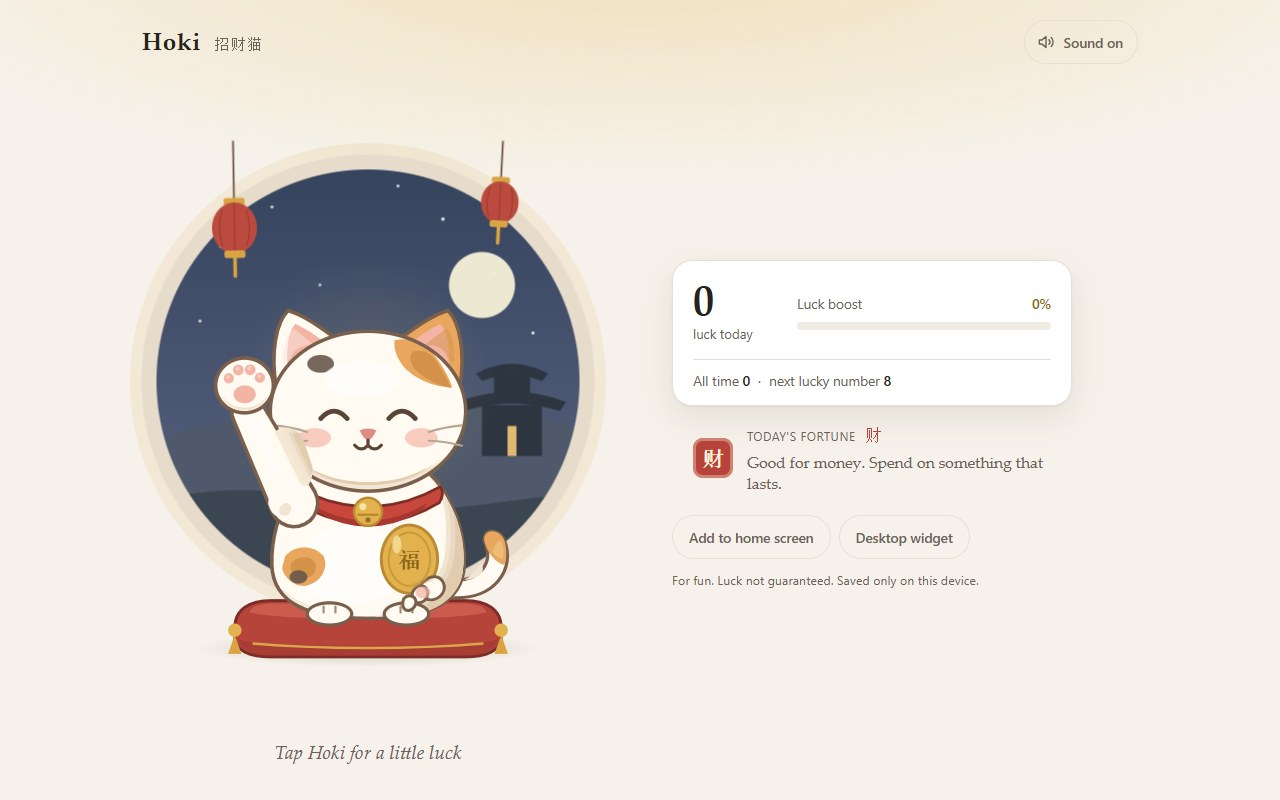
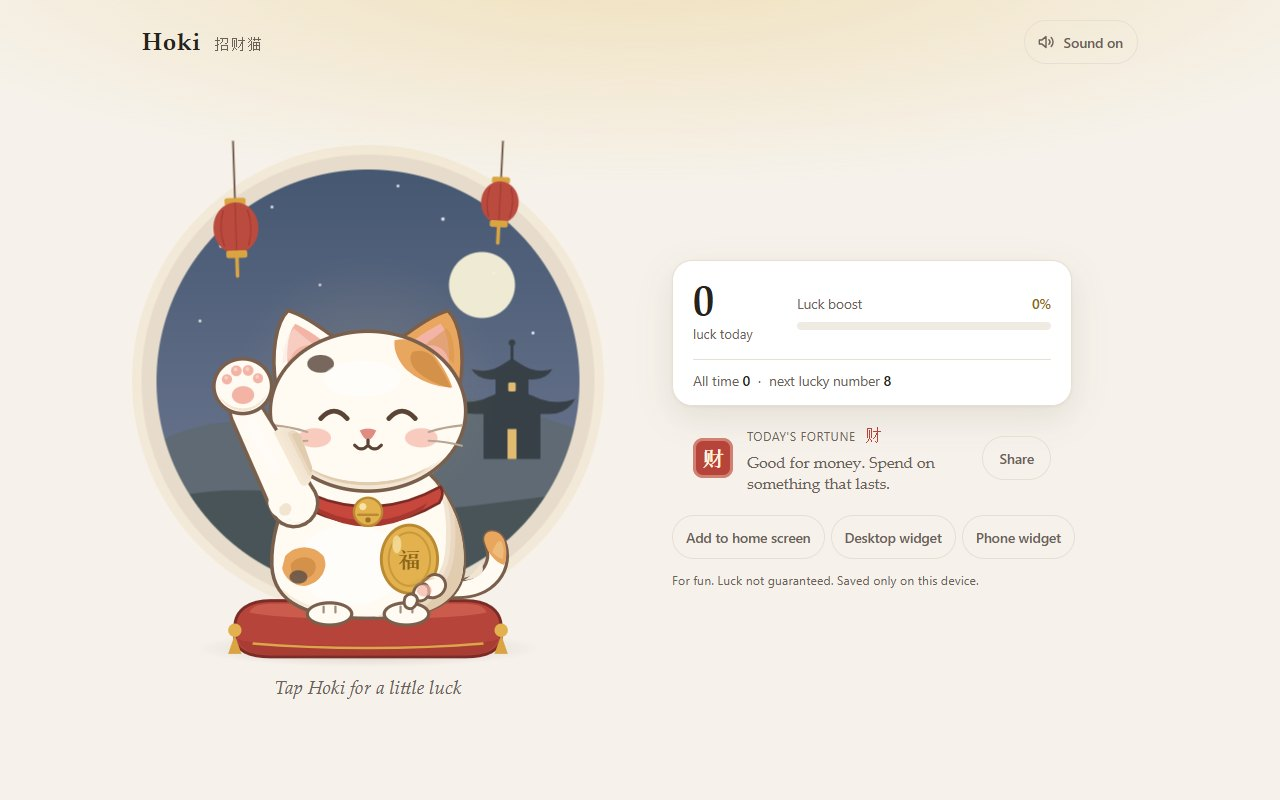
hoki: Android home-screen widget copy + v2.3.1 shot

diff --git a/p/hoki/index.html b/p/hoki/index.html
@@ -592,7 +592,7 @@ html.dna.dna.dna { --fd: "Shippori Mincho", var(--fd-fallback); --fdw: 700; --fd
   <section class="hero wrap editorial" id="top">
     
     <div class="hero-top"><div class="hero-copy">
-      <span class="pill"><span class="dot"></span>PWA · Windows widget<span class="status">live</span></span>
+      <span class="pill"><span class="dot"></span>PWA · Windows widget · Android widget<span class="status">live</span></span>
       <h1>A <span class="hl">lucky cat<svg viewBox="0 0 200 20" preserveAspectRatio="none" aria-hidden="true"><path d="M2 14 C 40 4, 80 4, 110 11 S 170 18, 198 7" fill="none" stroke="currentColor" stroke-width="5" stroke-linecap="round"/></svg></span> that waves all day.</h1>
       <p class="sub">Hoki is a calm maneki-neko (招财猫) for your phone home screen and your Windows desktop. Tap it for a little luck.</p>
       <div class="cta"><a class="btn primary" href="https://juw12.github.io/hoki/">▶ Try it live</a><a class="btn " href="https://github.com/juw12/hoki#readme">Read the README</a><a class="btn " href="https://github.com/juw12/hoki">View source</a></div>
@@ -604,7 +604,7 @@ html.dna.dna.dna { --fd: "Shippori Mincho", var(--fd-fallback); --fdw: 700; --fd
       <div class="bar"><i></i><i></i><i></i><span>hoki · live demo</span><em>live demo</em></div>
       <img src="shot.jpg" alt="Hoki screenshot" width="1280" height="800" fetchpriority="high">
     </figure>
-    <div class="stats reveal" style="--n:2"><div class="stat"><b>2</b><span>platforms: PWA, Windows widget</span></div><div class="stat"><b>MIT</b><span>open source licence</span></div></div>
+    <div class="stats reveal" style="--n:2"><div class="stat"><b>3</b><span>platforms: PWA, Windows widget, Android widget</span></div><div class="stat"><b>MIT</b><span>open source licence</span></div></div>
   </section>
 
   <section class="block wrap why reveal" id="why">
@@ -616,17 +616,17 @@ html.dna.dna.dna { --fd: "Shippori Mincho", var(--fd-fallback); --fdw: 700; --fd
   <section class="block alt wrap reveal" id="how">
     <div class="kicker">How it works</div>
     <h2>Get Hoki</h2>
-    <ol class="steps n3"><li><span class="num">1</span><h3>Open it</h3><p>Go to juw12.github.io/hoki on your phone or computer.</p></li><li><span class="num">2</span><h3>Add it to your home screen</h3><p>iPhone (Safari): Share, then Add to Home Screen.</p></li><li><span class="num">3</span><h3>Or put it on your desktop</h3><p>On Windows, paste one line into PowerShell.</p></li></ol>
+    <ol class="steps n3"><li><span class="num">1</span><h3>Open it</h3><p>Go to juw12.github.io/hoki on your phone or computer.</p></li><li><span class="num">2</span><h3>Put it on your phone</h3><p>Android: tap Phone widget in the app, install hoki-widget.apk, then long-press the home screen, choose Widgets and drag Hoki out.</p></li><li><span class="num">3</span><h3>Or put it on your desktop</h3><p>On Windows, paste one line into PowerShell.</p></li></ol>
   </section>
   <section class="block wrap reveal" id="features">
     <div class="kicker">What's inside</div>
     <h2>What Hoki does.</h2>
-    <div class="bento"><article class="cell wide dark"><h3>A cat that waves all day</h3><p>The raised paw waves on its own, smoothly, in a soft flat-vector style with a moon-gate scene behind it.</p></article><article class="cell"><h3>Tap for luck</h3><p>Each tap gives +1 luck (福 / 财 / 运 / 喜), a bell, coins and a luck boost that speeds up the wave.</p></article><article class="cell"><h3>Lucky numbers</h3><p>8 发, 28, 88, 168 一路发, 288, 888, 1688 and 8888 trigger a big bell and a blessing.</p></article><article class="cell accent"><h3>Today and all time</h3><p>Counts your luck for today and all time, and shows the next lucky number to reach.</p></article><article class="cell"><h3>On your home screen</h3><p>Add it to your phone&#x27;s home screen. It opens full screen and works offline.</p></article><article class="cell"><h3>On your Windows desktop</h3><p>A transparent, always-on-top widget draws the same cat. Click for luck, drag to move, right-click for options.</p></article></div>
+    <div class="bento"><article class="cell wide dark"><h3>A cat that waves all day</h3><p>The raised paw waves on its own, smoothly, in a soft flat-vector style with a moon-gate scene behind it.</p></article><article class="cell"><h3>Tap for luck</h3><p>Each tap gives +1 luck (福 / 财 / 运 / 喜), a bell, coins and a luck boost that speeds up the wave.</p></article><article class="cell"><h3>Lucky numbers</h3><p>8 发, 28, 88, 168 一路发, 288, 888, 1688 and 8888 trigger a big bell and a blessing.</p></article><article class="cell accent"><h3>Today and all time</h3><p>Counts your luck for today and all time, and shows the next lucky number to reach.</p></article><article class="cell"><h3>On your phone</h3><p>Android: a real home-screen widget. The cat waves on your home screen and a tap adds luck. iPhone: Add to Home Screen for a full-screen Hoki that works offline.</p></article><article class="cell"><h3>On your Windows desktop</h3><p>A transparent, always-on-top widget draws the same cat. Click for luck, drag to move, right-click for options.</p></article></div>
   </section>
   <section class="block alt wrap reveal" id="today">
     <div class="kicker">Working today</div>
     <h2>Small on purpose.</h2>
-    <ul class="checks"><li><i><svg viewBox="0 0 24 24" aria-hidden="true"><path d="M5 12.5l4.2 4.2L19 7" fill="none" stroke="currentColor" stroke-width="2.6" stroke-linecap="round" stroke-linejoin="round"/></svg></i><span>Waves all day</span></li><li><i><svg viewBox="0 0 24 24" aria-hidden="true"><path d="M5 12.5l4.2 4.2L19 7" fill="none" stroke="currentColor" stroke-width="2.6" stroke-linecap="round" stroke-linejoin="round"/></svg></i><span>Tap for a luck boost</span></li><li><i><svg viewBox="0 0 24 24" aria-hidden="true"><path d="M5 12.5l4.2 4.2L19 7" fill="none" stroke="currentColor" stroke-width="2.6" stroke-linecap="round" stroke-linejoin="round"/></svg></i><span>Lucky-number blessings</span></li><li><i><svg viewBox="0 0 24 24" aria-hidden="true"><path d="M5 12.5l4.2 4.2L19 7" fill="none" stroke="currentColor" stroke-width="2.6" stroke-linecap="round" stroke-linejoin="round"/></svg></i><span>Works offline</span></li><li><i><svg viewBox="0 0 24 24" aria-hidden="true"><path d="M5 12.5l4.2 4.2L19 7" fill="none" stroke="currentColor" stroke-width="2.6" stroke-linecap="round" stroke-linejoin="round"/></svg></i><span>Phone home screen</span></li><li><i><svg viewBox="0 0 24 24" aria-hidden="true"><path d="M5 12.5l4.2 4.2L19 7" fill="none" stroke="currentColor" stroke-width="2.6" stroke-linecap="round" stroke-linejoin="round"/></svg></i><span>Windows desktop widget</span></li><li><i><svg viewBox="0 0 24 24" aria-hidden="true"><path d="M5 12.5l4.2 4.2L19 7" fill="none" stroke="currentColor" stroke-width="2.6" stroke-linecap="round" stroke-linejoin="round"/></svg></i><span>No account, no ads</span></li></ul>
+    <ul class="checks"><li><i><svg viewBox="0 0 24 24" aria-hidden="true"><path d="M5 12.5l4.2 4.2L19 7" fill="none" stroke="currentColor" stroke-width="2.6" stroke-linecap="round" stroke-linejoin="round"/></svg></i><span>Waves all day</span></li><li><i><svg viewBox="0 0 24 24" aria-hidden="true"><path d="M5 12.5l4.2 4.2L19 7" fill="none" stroke="currentColor" stroke-width="2.6" stroke-linecap="round" stroke-linejoin="round"/></svg></i><span>Tap for a luck boost</span></li><li><i><svg viewBox="0 0 24 24" aria-hidden="true"><path d="M5 12.5l4.2 4.2L19 7" fill="none" stroke="currentColor" stroke-width="2.6" stroke-linecap="round" stroke-linejoin="round"/></svg></i><span>Lucky-number blessings</span></li><li><i><svg viewBox="0 0 24 24" aria-hidden="true"><path d="M5 12.5l4.2 4.2L19 7" fill="none" stroke="currentColor" stroke-width="2.6" stroke-linecap="round" stroke-linejoin="round"/></svg></i><span>Works offline</span></li><li><i><svg viewBox="0 0 24 24" aria-hidden="true"><path d="M5 12.5l4.2 4.2L19 7" fill="none" stroke="currentColor" stroke-width="2.6" stroke-linecap="round" stroke-linejoin="round"/></svg></i><span>Android home-screen widget</span></li><li><i><svg viewBox="0 0 24 24" aria-hidden="true"><path d="M5 12.5l4.2 4.2L19 7" fill="none" stroke="currentColor" stroke-width="2.6" stroke-linecap="round" stroke-linejoin="round"/></svg></i><span>Windows desktop widget</span></li><li><i><svg viewBox="0 0 24 24" aria-hidden="true"><path d="M5 12.5l4.2 4.2L19 7" fill="none" stroke="currentColor" stroke-width="2.6" stroke-linecap="round" stroke-linejoin="round"/></svg></i><span>No account, no ads</span></li></ul>
   </section>
   <section class="block wrap reveal" id="gallery">
     <div class="kicker">Screens</div>
@@ -658,7 +658,7 @@ html.dna.dna.dna { --fd: "Shippori Mincho", var(--fd-fallback); --fdw: 700; --fd
     <div class="limits">
       <div><div class="kicker left">Good to know</div><h2 class="left">Honest limits.</h2>
       <p class="muted">Straight from the README, so you know what you're getting before you try it.</p></div>
-      <ul><li><i><svg viewBox="0 0 24 24" aria-hidden="true"><path d="M12 3.5l9.5 16.5h-19z" fill="none" stroke="currentColor" stroke-width="2" stroke-linejoin="round"/><path d="M12 10v4.5M12 17.4v.1" stroke="currentColor" stroke-width="2.2" stroke-linecap="round"/></svg></i><span>A live, animated widget inside the iOS or Android widget area would need a native app, because the system widget APIs don&#x27;t allow continuous animation.</span></li><li><i><svg viewBox="0 0 24 24" aria-hidden="true"><path d="M12 3.5l9.5 16.5h-19z" fill="none" stroke="currentColor" stroke-width="2" stroke-linejoin="round"/><path d="M12 10v4.5M12 17.4v.1" stroke="currentColor" stroke-width="2.2" stroke-linecap="round"/></svg></i><span>The desktop widget is for Windows only.</span></li></ul>
+      <ul><li><i><svg viewBox="0 0 24 24" aria-hidden="true"><path d="M12 3.5l9.5 16.5h-19z" fill="none" stroke="currentColor" stroke-width="2" stroke-linejoin="round"/><path d="M12 10v4.5M12 17.4v.1" stroke="currentColor" stroke-width="2.2" stroke-linecap="round"/></svg></i><span>iPhone home-screen widgets need an App Store app, so on iPhone Hoki installs as a full-screen home-screen app instead.</span></li><li><i><svg viewBox="0 0 24 24" aria-hidden="true"><path d="M12 3.5l9.5 16.5h-19z" fill="none" stroke="currentColor" stroke-width="2" stroke-linejoin="round"/><path d="M12 10v4.5M12 17.4v.1" stroke="currentColor" stroke-width="2.2" stroke-linecap="round"/></svg></i><span>The Android widget installs from GitHub, not the Play Store, so Android asks you to allow the install once.</span></li><li><i><svg viewBox="0 0 24 24" aria-hidden="true"><path d="M12 3.5l9.5 16.5h-19z" fill="none" stroke="currentColor" stroke-width="2" stroke-linejoin="round"/><path d="M12 10v4.5M12 17.4v.1" stroke="currentColor" stroke-width="2.2" stroke-linecap="round"/></svg></i><span>The desktop widget is for Windows only.</span></li></ul>
     </div>
   </section>
   <section class="block wrap reveal" id="hood">
@@ -672,7 +672,7 @@ html.dna.dna.dna { --fd: "Shippori Mincho", var(--fd-fallback); --fdw: 700; --fd
   <section class="block alt wrap reveal" id="faq">
     <div class="kicker">Questions</div>
     <h2>Good questions.</h2>
-    <div class="faq"><details open><summary>What does it run on?</summary><p>PWA, Windows widget. You can try it in the browser with nothing to install.</p></details><details><summary>How do I get it running?</summary><p>The commands in the “Windows desktop widget” box above come straight from the README. Paste them into a terminal; the README covers options and troubleshooting.</p></details><details><summary>Where does my data go?</summary><p>Your counts are saved only on your device.</p></details><details><summary>Does it need admin rights on Windows?</summary><p>No. There is no install wizard: it is one PowerShell + WPF script that draws the same cat as the web app.</p></details><details><summary>How do I uninstall the desktop widget?</summary><p>Right-click the cat and choose Quit, then delete %LOCALAPPDATA%\Hoki, %APPDATA%\Hoki and the Start menu shortcut &quot;Hoki Lucky Cat&quot;.</p></details><details><summary>Can I show just the cat?</summary><p>Yes. juw12.github.io/hoki/?widget shows a cat-only view with a transparent background, for a browser side panel or a live-wallpaper tool.</p></details><details><summary>What doesn&#x27;t it do yet?</summary><p>A live, animated widget inside the iOS or Android widget area would need a native app, because the system widget APIs don&#x27;t allow continuous animation. The desktop widget is for Windows only.</p></details><details><summary>Is it finished?</summary><p>Not yet: it&#x27;s marked “live” and still changing. The README always has the current state.</p></details></div>
+    <div class="faq"><details open><summary>What does it run on?</summary><p>PWA, Windows widget, Android widget. You can try it in the browser with nothing to install.</p></details><details><summary>How do I get it running?</summary><p>The commands in the “Windows desktop widget” box above come straight from the README. Paste them into a terminal; the README covers options and troubleshooting.</p></details><details><summary>Where does my data go?</summary><p>Your counts are saved only on your device.</p></details><details><summary>Does it need admin rights on Windows?</summary><p>No. There is no install wizard: it is one PowerShell + WPF script that draws the same cat as the web app.</p></details><details><summary>How do I uninstall the desktop widget?</summary><p>Right-click the cat and choose Quit, then delete %LOCALAPPDATA%\Hoki, %APPDATA%\Hoki and the Start menu shortcut &quot;Hoki Lucky Cat&quot;.</p></details><details><summary>Can I show just the cat?</summary><p>Yes. juw12.github.io/hoki/?widget shows a cat-only view with a transparent background, for a browser side panel or a live-wallpaper tool.</p></details><details><summary>What doesn&#x27;t it do yet?</summary><p>iPhone home-screen widgets need an App Store app, so on iPhone Hoki installs as a full-screen home-screen app instead. The Android widget installs from GitHub, not the Play Store, so Android asks you to allow the install once.</p></details><details><summary>Is it finished?</summary><p>Not yet: it&#x27;s marked “live” and still changing. The README always has the current state.</p></details></div>
   </section>
   <section class="block wrap reveal" id="more">
     <div class="kicker">Keep exploring</div>
